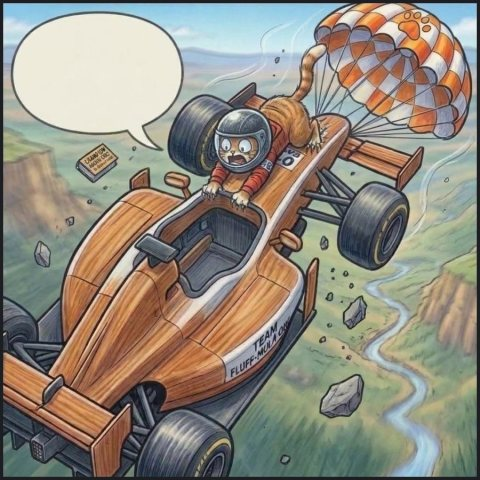
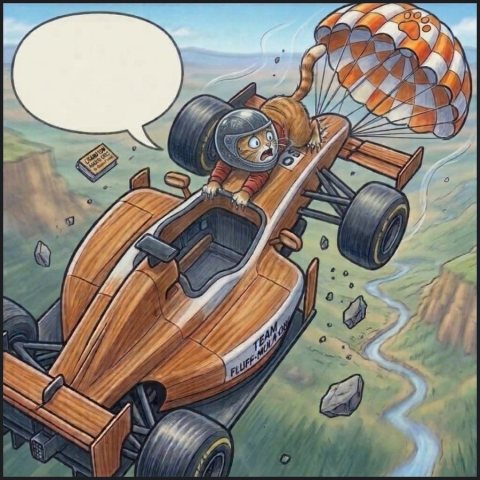
Ep8: updated frame 2
Claude-Session: https://claude.ai/code/session_01NreAqm5NtqDWekSoZfY2fL

diff --git a/ep8/index.html b/ep8/index.html
@@ -197,8 +197,8 @@ body.show-en .story{gap:2px}
   <section class="panel">
     <div class="story"><p data-line="就在这时|，|只|听|“|呼|——|”|的|一声|！" data-en="Just then — whoosh!"></p><p data-line="原来|，|是|赛车|后面|飞出了|一把|大伞|！" data-en="A big parachute had shot out of the back of the car!"></p></div>
     <figure>
-      <img src="sq2.jpg?v=2" alt="A checked orange and white parachute pops open behind the falling car" width="900" height="900">
-      <button class="bub" data-who="cat" data-line="哇|！|是|大伞|！|太好了|！" data-en="Wow! A big parachute! Brilliant!" data-show="哇！/是大伞！/太好了！" style="left:7.8%;top:3.8%;width:24.9%;height:22.7%;font-size:5.8cqw;line-height:1.25"></button>
+      <img src="sq2.jpg?v=3" alt="A checked orange and white parachute pops open behind the falling car" width="900" height="900">
+      <button class="bub" data-who="cat" data-line="哇|！|是|大伞|！|太好了|！" data-en="Wow! A big parachute! Brilliant!" data-show="哇！/是大伞！/太好了！" style="left:8.1%;top:4.1%;width:24.7%;height:22.5%;font-size:5.7cqw;line-height:1.25"></button>
     </figure>
   </section>
   <section class="panel">

diff --git a/index.html b/index.html
@@ -84,7 +84,7 @@ h1{font-family:var(--display);font-weight:400;font-size:clamp(2.4rem,10vw,3.4rem
       <div class="info"><div class="num">Episode 7</div><div class="ttl">幻想世界（二）</div><div class="idiom"><b>大惊失色</b><span>dà jīng shī sè · pale with shock</span></div></div>
     </a>
     <a class="ep" href="ep8/">
-      <img src="ep8.jpg?v=2" alt="">
+      <img src="ep8.jpg?v=3" alt="">
       <div class="info"><div class="num">Episode 8</div><div class="ttl">幻想世界（三）</div><div class="idiom"><b>有惊无险</b><span>yǒu jīng wú xiǎn · scary but safe</span></div></div>
     </a>
     <div class="soon">第九集<br>快来了……</div>
